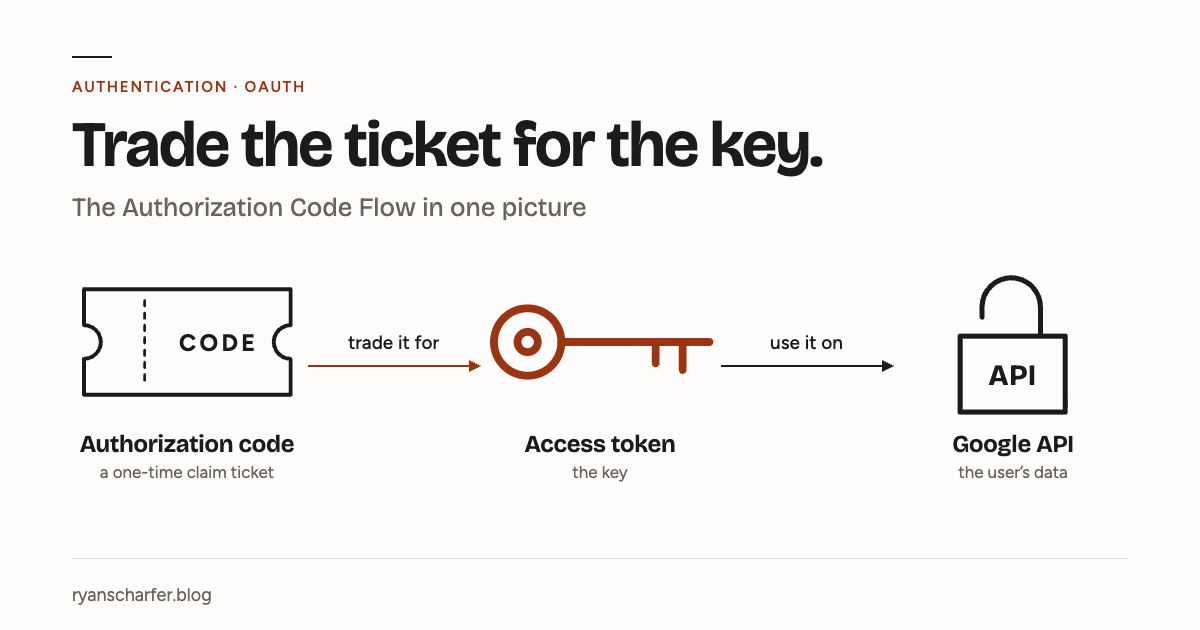
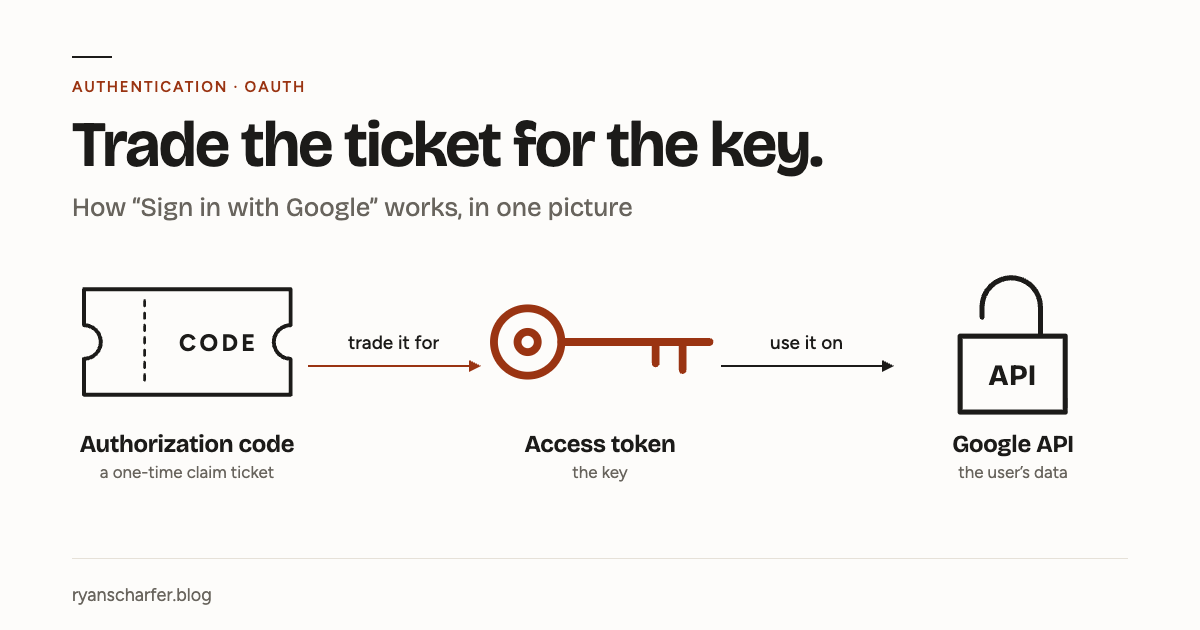
update title and subtitle of first post

Changed region(s): [[0.0617, 0.3016, 0.5242, 0.3619]]

diff --git a/design/og/authorization-code-flow.html b/design/og/authorization-code-flow.html
@@ -39,7 +39,7 @@
   <div class="bar"></div>
   <div class="kicker">Authentication · OAuth</div>
   <h1>Trade the ticket for the key.</h1>
-  <p class="sub">The Authorization Code Flow in one picture</p>
+  <p class="sub">How “Sign in with Google” works, in one picture</p>
 
   <div class="story">
     <div class="thing">

diff --git a/posts/authentication/authorization-code-flow.md b/posts/authentication/authorization-code-flow.md
@@ -1,8 +1,8 @@
 ---
-title: Authorization Code Flow
+title: How "Sign in with Google" Works
 created: November 5, 2026
-updated: November 6, 2026
-subtitle: The canonical OAuth flow used for delegated access to data
+updated: November 10, 2026
+subtitle: Authorization Code Flow{:} the OAuth and OpenID Connect handshake behind nearly every social login
 image: /og/authentication/authorization-code-flow.png
 icons:
   User: role
